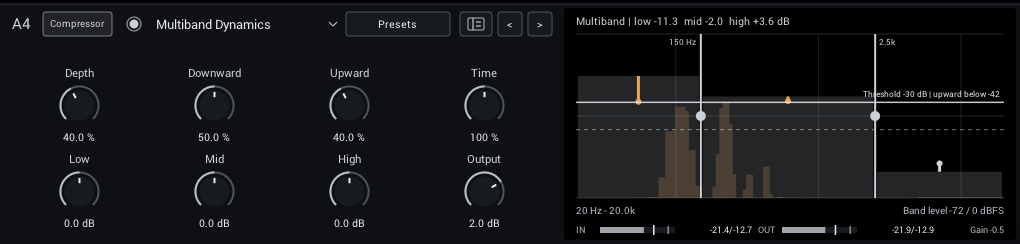
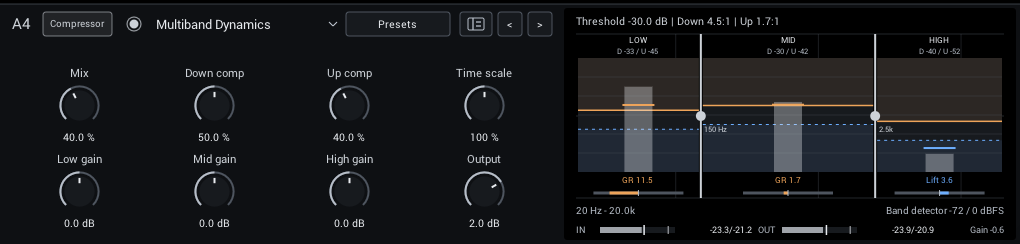
Clarify Multiband Dynamics controls and restore preset band setup

diff --git a/NeuralAmpModeler/NAMGridControls.h b/NeuralAmpModeler/NAMGridControls.h
@@ -1130,7 +1130,7 @@ private:
     const auto* param = GetParam(mTarget);
     const double upper = multiband_view::Upper(PLUG()->GetSampleRate());
     const double value = mTarget < 2 ? multiband_view::Hz(mRECT, x, upper)
-                                     : mStartThreshold + (y - mStartY) / mRECT.H() * multiband_view::kFloor;
+                                     : mStartThreshold + (y - mStartY) / (mRECT.H() - 50.f) * multiband_view::kFloor;
     SetValue(param->ToNormalized(std::clamp(value, param->GetMin(), param->GetMax())), mTarget);
     SetDirty(true, mTarget);
   }
@@ -2624,44 +2624,65 @@ private:
     level(meters.T + 72.f, "R", sumR);
     PlotFooter(g, plot, "Scope auto-scaled", "RMS -60..0 dB");
   }
-  // Outboard Channel is a cut EQ, a compressor and a saturator in series. The cuts and the
-  // gain reduction get views; the title reports measured reduction rather than repeating knobs.
+  // Three independent detectors with shared up/down amounts and timing.
   void DrawMultiband(IGraphics& g, const IRECT& plot, IColor color)
   {
     using namespace grid_ui;
     using namespace multiband_view;
     const auto value = [&](int p) { return GetDelegate()->GetParam(SlotUtilityParam(mSlot, p))->Value(); };
     const double upper = Upper(PLUG()->GetSampleRate());
+    const double threshold = value(uMultibandThreshold);
+    const bool down = value(uMultibandDownward) > 0., up = value(uMultibandUpward) > 0.;
     WDL_String caption;
-    caption.SetFormatted(96, "Multiband | low %+.1f  mid %+.1f  high %+.1f dB", mMeter.bandGain[0], mMeter.bandGain[1], mMeter.bandGain[2]);
+    caption.SetFormatted(96, "Threshold %.1f dB | Down %.1f:1 | Up %.1f:1", threshold,
+      std::pow(20., value(uMultibandDownward) * .01), std::pow(4., value(uMultibandUpward) * .01));
     PlotTitle(g, plot, color, caption.Get());
-    PlotDetail(g, plot, "Drag a split line, or up and down for Threshold");
-    PlotFrequencyAxis(g, plot, upper, "Band level -72 / 0 dBFS");
-    DrawSignalSpectrum(g, plot, false);
+    PlotDetail(g, plot, "Each band reacts independently. Solid = downward threshold; dashed = upward threshold. "
+      "Amber = gain reduction; blue = upward lift, before band gains and Mix. "
+      "Drag vertical split lines horizontally, or elsewhere vertically for Threshold. Double-click resets.");
+    PlotFrequencyAxis(g, plot, upper, "Band detector -72 / 0 dBFS");
     const float low = X(plot, value(uMultibandLowSplit), upper), high = X(plot, std::max(value(uMultibandHighSplit), value(uMultibandLowSplit)), upper);
     const std::array<std::pair<float, float>, 3> bands{{{plot.L, low}, {low, high}, {high, plot.R}}};
-    // Each band: its detected level, and an arrow to where its gain moves it (up: upward, down: downward).
+    const char* names[]{"LOW", "MID", "HIGH"};
+    WDL_String label;
+    // Actual detector thresholds include the DSP's band offsets. The previous
+    // single horizontal line incorrectly suggested identical thresholds.
     for (int b = 0; b < 3; ++b)
     {
       const auto [left, right] = bands[b];
       if (right - left < 6.f) continue;
-      const float centre = .5f * (left + right), level = Y(plot, mMeter.bandLevel[b]);
-      g.FillRect(color.WithOpacity(.18f), IRECT(left + 2.f, level, right - 2.f, plot.B));
-      const float moved = Y(plot, mMeter.bandLevel[b] + mMeter.bandGain[b]);
-      if (std::abs(moved - level) > .5f)
+      const IRECT lane(left + 2.f, plot.T + 24.f, right - 2.f, plot.B - 26.f);
+      const double bandThreshold = threshold + SlotMultiband::kOffset[b];
+      const float downY = Y(lane, bandThreshold), upY = Y(lane, bandThreshold - SlotMultiband::kUpwardGap);
+      g.FillRect(surface, lane);
+      if (down) g.FillRect(ampColor.WithOpacity(.10f), IRECT(lane.L, lane.T, lane.R, downY));
+      if (up) g.FillRect(cabColor.WithOpacity(.10f), IRECT(lane.L, upY, lane.R, lane.B));
+      for (double db : {-12., -24., -36., -48., -60.})
+        g.DrawLine(border.WithOpacity(.3f), lane.L, Y(lane, db), lane.R, Y(lane, db));
+      if (down) g.DrawLine(ampColor, lane.L, downY, lane.R, downY, nullptr, 1.5f);
+      if (up) for (float x = lane.L; x < lane.R; x += 7.f)
+        g.DrawLine(cabColor, x, upY, std::min(x + 3.f, lane.R), upY);
+      // Input level is measured; the signed gain meter excludes the output trims.
+      const float centre = lane.MW(), level = Y(lane, mMeter.bandLevel[b]);
+      const float halfWidth = std::min(14.f, lane.W() * .15f);
+      g.FillRect(text.WithOpacity(.35f), IRECT(centre - halfWidth, level, centre + halfWidth, lane.B));
+      const double gain = mMeter.bandGain[b];
+      const auto ink = gain < 0. ? ampColor : cabColor;
+      const float moved = Y(lane, mMeter.bandLevel[b] + gain);
+      g.DrawLine(ink, centre - halfWidth - 2.f, moved, centre + halfWidth + 2.f, moved, nullptr, 2.f);
+      if (lane.W() > 38.f)
       {
-        const auto ink = mMeter.bandGain[b] < 0.f ? ampColor : color;
-        g.DrawLine(ink, centre, level, centre, moved, nullptr, 3.f);
-        g.FillCircle(ink, centre, moved, 3.f);
+        g.DrawText(Text(11.f, text, EAlign::Center), names[b], IRECT(left, plot.T, right, plot.T + 13.f));
+        label.SetFormatted(32, "D %.0f / U %.0f", bandThreshold, bandThreshold - SlotMultiband::kUpwardGap);
+        g.DrawText(Text(10.f, muted, EAlign::Center), label.Get(), IRECT(left, plot.T + 12.f, right, plot.T + 24.f));
+        label.SetFormatted(32, "%s %.1f", gain < -.05 ? "GR" : gain > .05 ? "Lift" : "Gain", std::abs(gain));
+        g.DrawText(Text(11.f, ink, EAlign::Center), label.Get(), IRECT(left, plot.B - 24.f, right, plot.B - 11.f));
+        const float extent = std::min(lane.W() * .45f, 45.f), zero = lane.MW(), y = plot.B - 5.f;
+        g.DrawLine(border, zero - extent, y, zero + extent, y, nullptr, 3.f);
+        g.DrawLine(ink, zero, y, zero + extent * static_cast<float>(std::clamp(gain / 18., -1., 1.)), y, nullptr, 3.f);
+        g.DrawLine(muted, zero, y - 3.f, zero, y + 3.f);
       }
     }
-    const double threshold = value(uMultibandThreshold);
-    g.DrawLine(text.WithOpacity(.85f), plot.L, Y(plot, threshold), plot.R, Y(plot, threshold), nullptr, 1.5f);
-    for (float x = plot.L; x < plot.R; x += 8.f)
-      g.DrawLine(text.WithOpacity(.5f), x, Y(plot, threshold - SlotMultiband::kUpwardGap), std::min(x + 4.f, plot.R), Y(plot, threshold - SlotMultiband::kUpwardGap));
-    WDL_String label;
-    label.SetFormatted(48, "Threshold %.0f dB | upward below %.0f", threshold, threshold - SlotMultiband::kUpwardGap);
-    g.DrawText(Text(11.f, text, EAlign::Far), label.Get(), IRECT(plot.L, Y(plot, threshold) - 14.f, plot.R - 4.f, Y(plot, threshold) - 2.f));
     for (int split = 0; split < 2; ++split)
     {
       const float x = split ? high : low;
@@ -2669,8 +2690,7 @@ private:
       g.FillCircle(color, x, plot.MH(), 5.f);
       const double hz = value(split ? uMultibandHighSplit : uMultibandLowSplit);
       label.SetFormatted(32, hz >= 1000. ? "%.1fk" : "%.0f Hz", hz >= 1000. ? hz * .001 : hz);
-      g.DrawText(Text(11.f, color, split ? EAlign::Near : EAlign::Far), label.Get(),
-                 split ? IRECT(x + 4.f, plot.T + 2.f, x + 60.f, plot.T + 14.f) : IRECT(x - 60.f, plot.T + 2.f, x - 4.f, plot.T + 14.f));
+      g.DrawText(Text(10.f, color, EAlign::Near), label.Get(), IRECT(x + 4.f, plot.MH() + 7.f, std::min(x + 58.f, plot.R), plot.MH() + 20.f));
     }
   }
   void DrawOutboardChannel(IGraphics& g, const IRECT& plot, IColor color)

diff --git a/NeuralAmpModeler/EffectPresentation.h b/NeuralAmpModeler/EffectPresentation.h
@@ -188,6 +188,18 @@ inline int Position(SlotEffect e, int p)
 }
 inline const char* Label(SlotEffect e, int p, int mode = 0)
 {
+  // Presentation wording only: host names and saved keys stay stable.
+  switch (p)
+  {
+    case uMultibandDepth: return "Mix";
+    case uMultibandDownward: return "Down comp";
+    case uMultibandUpward: return "Up comp";
+    case uMultibandTime: return "Time scale";
+    case uMultibandLow: return "Low gain";
+    case uMultibandMid: return "Mid gain";
+    case uMultibandHigh: return "High gain";
+    default: break;
+  }
   if (e == SlotEffect::GraphicEQ && p >= uGraphicBand1 && p <= uGraphicBand7)
     return graphic_eq::kLabels[graphic_eq::Voicing(mode)][p - uGraphicBand1];
   if (e == SlotEffect::PedalDrive && p == uPedalCharacter)
@@ -239,17 +251,17 @@ inline const char* Help(SlotEffect e, int p, int mode = -1)
     case uPitchMix: return "Dry/shifted blend: 0% dry, 100% shifted only. Lower settings add fixed-interval harmony. The shifted voice has a short grain delay.";
     case uGraphicLevel: return "Overall level after the bands. Boost into an amp, or match bypass loudness.";
     case uGraphicVoicing: return "Band frequencies for the instrument. Guitar: octave bands from 100 Hz to 6.4 kHz. Bass: 40 Hz to 6 kHz, weighted to fundamentals and growl. Full range: 63 Hz to 16 kHz for acoustic or mixes. Changing it keeps the slider positions.";
-    case uMultibandDepth: return "Blend of the processed bands with the dry signal. 100% is fully processed; lower values keep more of the natural dynamics.";
-    case uMultibandDownward: return "How hard each band is pushed down above Threshold, up to 20:1. Zero turns downward compression off.";
-    case uMultibandUpward: return "How much quiet passages in each band are raised when they fall more than 12 dB below Threshold, up to 4:1. Zero gives a regular multiband compressor.";
+    case uMultibandDepth: return "Dry/processed blend (OTT Depth). 0% is dry; 100% is fully processed, including Low/Mid/High gain. Output follows this blend.";
+    case uMultibandDownward: return "Shared downward amount for all three bands, each reacting to its own level. 50% is about 4.5:1; 100% is 20:1. Zero turns it off. Solid lines show each band's threshold.";
+    case uMultibandUpward: return "Shared upward amount for all three bands, each reacting independently below its dashed line. 50% is 2:1; 100% is 4:1. Zero turns it off. Lift is limited to 18 dB and fades out near silence.";
     case uMultibandTime: return "Scales every band's attack and release; lower values react faster and pump more.";
-    case uMultibandLow: return "Level of the low band after its compression.";
-    case uMultibandMid: return "Level of the mid band after its compression.";
-    case uMultibandHigh: return "Level of the high band after its compression.";
-    case uMultibandOutput: return "Final level after Depth. Match bypass loudness when comparing.";
+    case uMultibandLow: return "Low-band output gain after compression, before Mix. Does not change the detector or compression amount.";
+    case uMultibandMid: return "Mid-band output gain after compression, before Mix. Does not change the detector or compression amount.";
+    case uMultibandHigh: return "High-band output gain after compression, before Mix. Does not change the detector or compression amount.";
+    case uMultibandOutput: return "Final level after Mix. Match bypass loudness when comparing.";
     case uMultibandLowSplit: return "Split between the low and mid bands; drag its line in the display.";
     case uMultibandHighSplit: return "Split between the mid and high bands; drag its line in the display.";
-    case uMultibandThreshold: return "Band level where downward compression starts; upward starts 12 dB below. Drag vertically in the display.";
+    case uMultibandThreshold: return "Shared threshold reference: mid band uses this value, low is 3 dB lower and high 10 dB lower. Upward starts 12 dB below each. Drag vertically between the split lines; double-click resets.";
     case uHarmonicCrossover: return "Where bass and treble split. Lower values move more of the guitar into the treble band.";
     case uSpringTank: return "Classic is the original diffuse spring. Dispersive follows a physical spring's chirp: in each echo the lows arrive first and the highs later, the drip of a real tank. Drip sets how strong the chirp is.";
     case uChorusVoices: return "1 voice is the classic single moving delay. 3 voices add two more delays a third of a cycle apart, at slightly different depths and delays, for a lusher, denser chorus.";

diff --git a/tests/ModulePresetTests.h b/tests/ModulePresetTests.h
@@ -68,8 +68,8 @@ void TestModulePresetCoverage()
       assert(Apply(effect, saved, SlotDefaultValues(effect)) == applied);
     }
   }
-  // Factory recipes retain input calibration and split setup unless explicitly
-  // overridden. User files still save and restore all three named controls.
+  // Selecting a factory recipe restores its complete graph setup, even after
+  // another recipe or a manual edit. User files restore all three controls too.
   const auto multiband = SlotEffect::Multiband;
   auto calibrated = SlotDefaultValues(multiband);
   const std::array<int, 3> setup{U(uMultibandThreshold), U(uMultibandLowSplit), U(uMultibandHighSplit)};
@@ -79,11 +79,17 @@ void TestModulePresetCoverage()
     const auto applied = Apply(multiband, preset, calibrated);
     for (int control : setup)
     {
-      double expected = calibrated[control];
+      double expected = SlotDefaultValues(multiband)[control];
       for (const auto& v : preset.values) if (v.control == control) expected = v.value;
       assert(applied[control] == expected);
+      for (const auto& previous : For(multiband))
+      {
+        const auto other = Apply(multiband, previous, calibrated);
+        assert(Apply(multiband, preset, other)[control] == expected);
+      }
     }
   }
+  assert(Matching(multiband, calibrated) == -1);
   const auto savedSetup = ToJson(multiband, calibrated);
   std::vector<Value> restoredSetup;
   assert(Parse(savedSetup, multiband, restoredSetup).empty());

diff --git a/NeuralAmpModeler/ModuleFactoryPresets.h b/NeuralAmpModeler/ModuleFactoryPresets.h
@@ -81,7 +81,7 @@ inline const Preset transientShaper[]{
   {"Gentle note sustain", {{U(uTransientShaperAttack), 0.}, {U(uTransientShaperSustain), 4.}, {U(uTransientShaperRecovery), 220.},
     {U(uTransientShaperSensitivity), 45.}, {U(uTransientShaperMix), 60.}, {U(uTransientShaperOutput), -1.}}},
 };
-// Multiband Dynamics keeps the player's Threshold. Output trims match loudness within about
+// Multiband Dynamics restores Threshold and splits with each recipe. Output trims match loudness within about
 // 1 dB on a guitar DI and a bass DI peaking near -6 dBFS; a hotter amp output comes out
 // 2-3 dB quieter on the heavier presets until Threshold is raised.
 inline const Preset multiband[]{

diff --git a/NeuralAmpModeler/ModulePresets.h b/NeuralAmpModeler/ModulePresets.h
@@ -48,8 +48,6 @@ inline bool ModuleControl(SlotEffect effect, int control)
 inline bool KeepsSetup(SlotEffect effect, int control)
 {
   if (effect == SlotEffect::PedalComp) return control == U(uPedalCompPickup);
-  if (effect == SlotEffect::Multiband)
-    return control == U(uMultibandThreshold) || control == U(uMultibandLowSplit) || control == U(uMultibandHighSplit);
   return false;
 }
 // The complete slot values after choosing a preset: module controls the preset leaves out

diff --git a/docs/modules/dynamics.md b/docs/modules/dynamics.md
@@ -231,18 +231,20 @@ the dry sound; use it on held guitar or bass notes rather than to emphasize the 
 
 ![Multiband Dynamics editor](../screenshots/modules/multiband-dynamics.png)
 
-Splits the sound into low, mid and high bands and compresses each one on its own, in both directions: loud passages are pushed down, quiet ones brought up. At full settings this is the dense, "over the top" multiband sound; with Upward at zero it is a regular multiband compressor that evens out boomy lows or spiky highs without pumping the rest. Depth blends the result with the dry sound for parallel compression.
+Splits the sound into low, mid and high bands and compresses each one on its own, in both directions: loud passages are pushed down, quiet ones brought up. At full settings this is the dense, "over the top" multiband sound; with Upward at zero it is a regular multiband compressor that evens out boomy lows or spiky highs without pumping the rest. Mix (called Depth in host automation) blends the result with the dry sound for parallel compression.
 
 | Control | Range | Start | What it does |
 | --- | --- | --- | --- |
-| **Depth** | 0–100% | 40% | Blend of the processed bands with the dry sound. 100% is fully processed. |
-| **Downward** | 0–100% | 50% | How hard each band is pushed down above its threshold, from 1:1 to 20:1. |
-| **Upward** | 0–100% | 40% | How much quiet passages in each band are raised, from 1:1 to 4:1. Zero gives a regular multiband compressor. |
-| **Time** | 10–1000% | 100% | Scales every band's attack and release; lower values react faster and pump more. |
-| **Low** | -12 to +12 dB | 0 dB | Level of the low band after its compression. |
-| **Mid** | -12 to +12 dB | 0 dB | Level of the mid band after its compression. |
-| **High** | -12 to +12 dB | 0 dB | Level of the high band after its compression. |
-| **Output** | -24 to +12 dB | 2 dB | Final level after Depth. Match bypass loudness when comparing. |
+| **Mix** | 0–100% | 40% | Blend of the processed bands with the dry sound. 100% is fully processed. |
+| **Down comp** | 0–100% | 50% | How hard each band is pushed down above its threshold, from 1:1 to 20:1. |
+| **Up comp** | 0–100% | 40% | How much quiet passages in each band are raised, from 1:1 to 4:1. Zero gives a regular multiband compressor. |
+| **Time scale** | 10–1000% | 100% | Scales every band's attack and release; lower values react faster and pump more. |
+| **Low gain** | -12 to +12 dB | 0 dB | Level of the low band after its compression. |
+| **Mid gain** | -12 to +12 dB | 0 dB | Level of the mid band after its compression. |
+| **High gain** | -12 to +12 dB | 0 dB | Level of the high band after its compression. |
+| **Output** | -24 to +12 dB | 2 dB | Final level after Mix. Match bypass loudness when comparing. |
+
+Down comp, Up comp and Time scale apply to all three bands. Each band has its own detector, so a loud bass note can trigger low-band compression without the same gain change in the mids and highs. Low/Mid/High gain are output trims after compression; they do not drive the detectors. Mix blends those processed bands with dry, then Output adjusts the final level. At Mix 0%, band gain and compression have no effect.
 
 In the display:
 
@@ -252,14 +254,14 @@ In the display:
 
 Downward and Upward map to ratios exponentially: Downward 50% is about 4.5:1, Upward 50% is 2:1. Upward gain is limited to +18 dB and fades out below -60 dBFS, so silence and hiss between notes are not raised. The detectors have no lookahead, so the start of a sudden note passes before a band's gain changes; heavy upward settings can raise peaks.
 
-**Display:** Each band's live level as a shaded column, with an arrow to where compression moves it: up for upward, down for downward. The solid line is Threshold, the dashed line where upward compression starts. The live output spectrum sits behind.
+**Display:** LOW, MID and HIGH show independent detector levels as grey bars, with a bright marker at the level after dynamic gain. Each band shows its own downward threshold (solid amber) and upward threshold (dashed blue); inactive compression directions hide their lines and shaded regions. The numbers under each band name are its downward / upward thresholds in dBFS. Below, GR means gain reduction and Lift means upward gain, in dB; the signed meter extends left for reduction and right for lift. These readings precede band output gains, Mix and Output. Drag the vertical dividers to set the crossovers; their labels show the split frequencies.
 
-**Presets:** Start with Gentle glue for downward-only leveling. Fast and tight reacts sooner; Clean sparkle lifts quieter detail. Over the top is the deliberately extreme choice. Presets keep your Threshold and splits, except Fast and tight, which narrows the mid band.
+**Presets:** Start with Gentle glue for downward-only leveling. Fast and tight reacts sooner; Clean sparkle lifts quieter detail. Over the top is the deliberately extreme choice. Selecting any factory preset restores its Threshold and splits as well as the knobs. Fast and tight uses 120 Hz / 3 kHz; the other recipes use 150 Hz / 2.5 kHz, all with a -30 dB threshold reference.
 
 **Tips:**
 
-- Set Threshold first: play your loudest part and drag until the mid band's arrow moves a few dB.
-- Like any zero-latency crossover, the bands shift phase around the splits. Depth blends with a matching dry signal, so partial Depth never comb filters, but a parallel lane without this module can.
+- Set Threshold first: play your loudest part and drag until the mid band's GR meter shows a few dB.
+- Like any zero-latency crossover, the bands shift phase around the splits. Mix blends with a matching dry signal, so partial Mix never comb filters, but a parallel lane without this module can.
 
 ## Peak Limiter
 

diff --git a/CHANGELOG.md b/CHANGELOG.md
@@ -4,6 +4,8 @@ All notable user-facing changes to NAM Grid are documented here, newest first. S
 
 ## [Unreleased]
 
+- **Clearer Multiband Dynamics:** Mix, Down comp, Up comp and band gain labels explain the controls. The display shows each band's actual compression thresholds, detector level and gain reduction or upward lift. Selecting a module preset now restores Threshold and crossover positions too. Existing rigs keep their sound.
+
 - **Sequential or parallel lanes:** new rigs and the bundled Clean Default preset now start with Pre → A → B → Post, without an empty lane's dry return. This makes new Clean Default rigs fully processed rather than blending in the empty lane. One flow button opens Routing; further clicks switch mode while keeping it open. Parallel adds independent left/right balances for A and B, with B controls below A. The amber/blue icon and grid wires follow the mode. The signal path stays visible above the compact crossover, M/S buttons mute or solo directly on each branch, and live stereo meters work in both modes. S unmutes its lane and clears the other solo; M clears its lane's solo. Sequential hides parallel controls. Trails and Keep dry level move to Settings and remain saved per rig. Existing projects and saved presets keep their routing and sound.
 - **Frequency hover readouts:** point at the Signal Monitor spectrum or a module's frequency chart to see a vertical cursor and its frequency in Hz plus the nearest note, such as F5.
 

diff --git a/docs/presets.md b/docs/presets.md
@@ -111,7 +111,7 @@ staging, with normal playing peaking around -9 dBFS.
 | Pedal Comp | Light always-on, Snappy clean picking, Long lead notes, Acoustic strumming |
 | Smooth / Punch Compressor, Butter Comp, Peak Limiter | Clean guitar leveling, Even bass notes; Tight picking, Parallel punch; Thick parallel; Louder, controlled |
 | Guitar EQ, Cut EQ, Parametric EQ | Scooped mids, Mid-forward lead, Dark jazz clean; Tight high gain, Bass cleanup, Telephone band; Low-mid mud cut, Harshness cut |
-| Multiband Dynamics | Gentle glue, Over the top, Fast and tight, Clean sparkle; factory recipes retain calibrated Threshold and splits unless explicitly set |
+| Multiband Dynamics | Gentle glue, Over the top, Fast and tight, Clean sparkle; factory recipes restore Threshold and band splits |
 | Transient Shaper | Defined picking, Soft acoustic, Tight palm mutes, Gentle note sustain |
 | Graphic EQ | Lead mid boost, Tight into amp, Bass clarity, Acoustic air; each selects its voicing |
 | Dynamic EQ | Palm-mute control (after amp), Tight into amp, Harsh pick tamer (after amp), Bass boom control |
